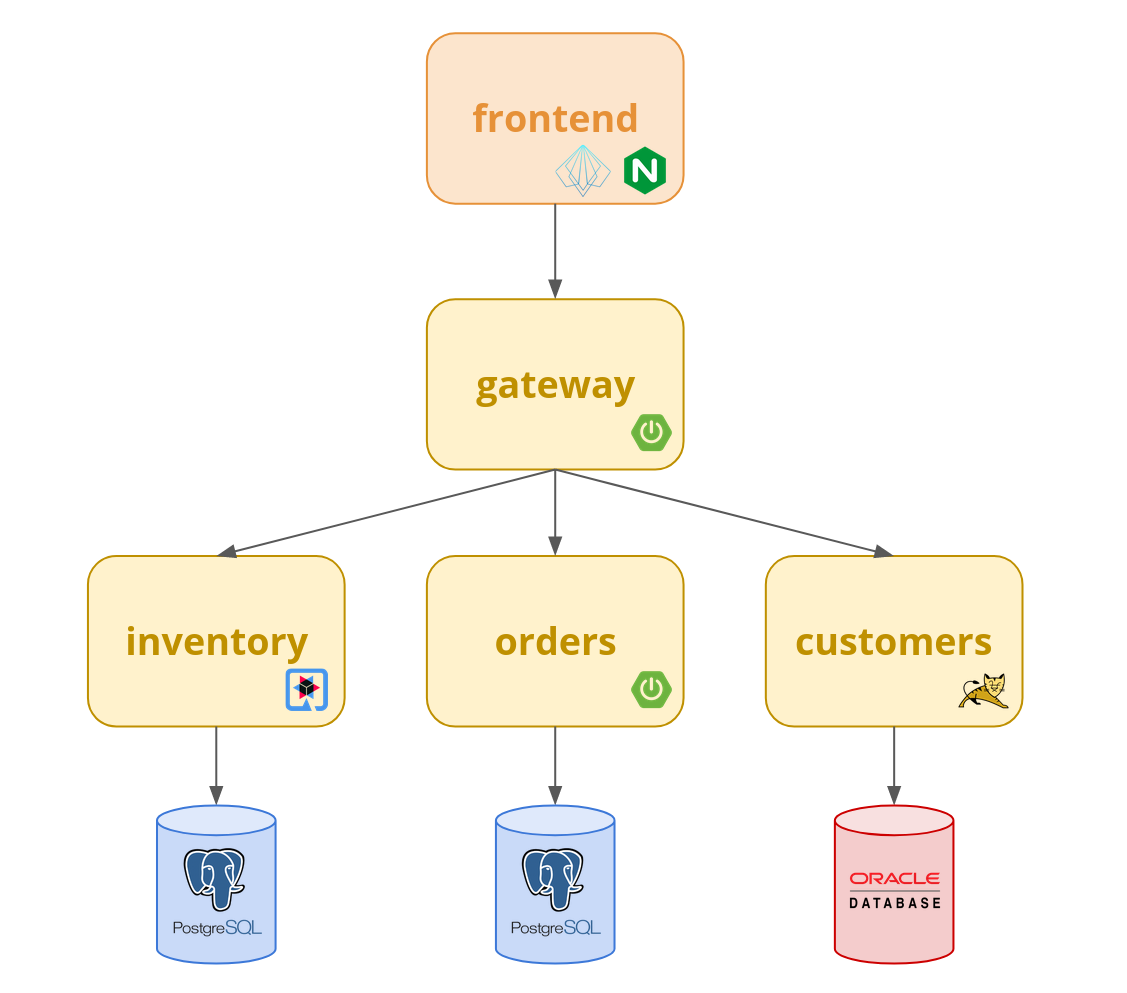
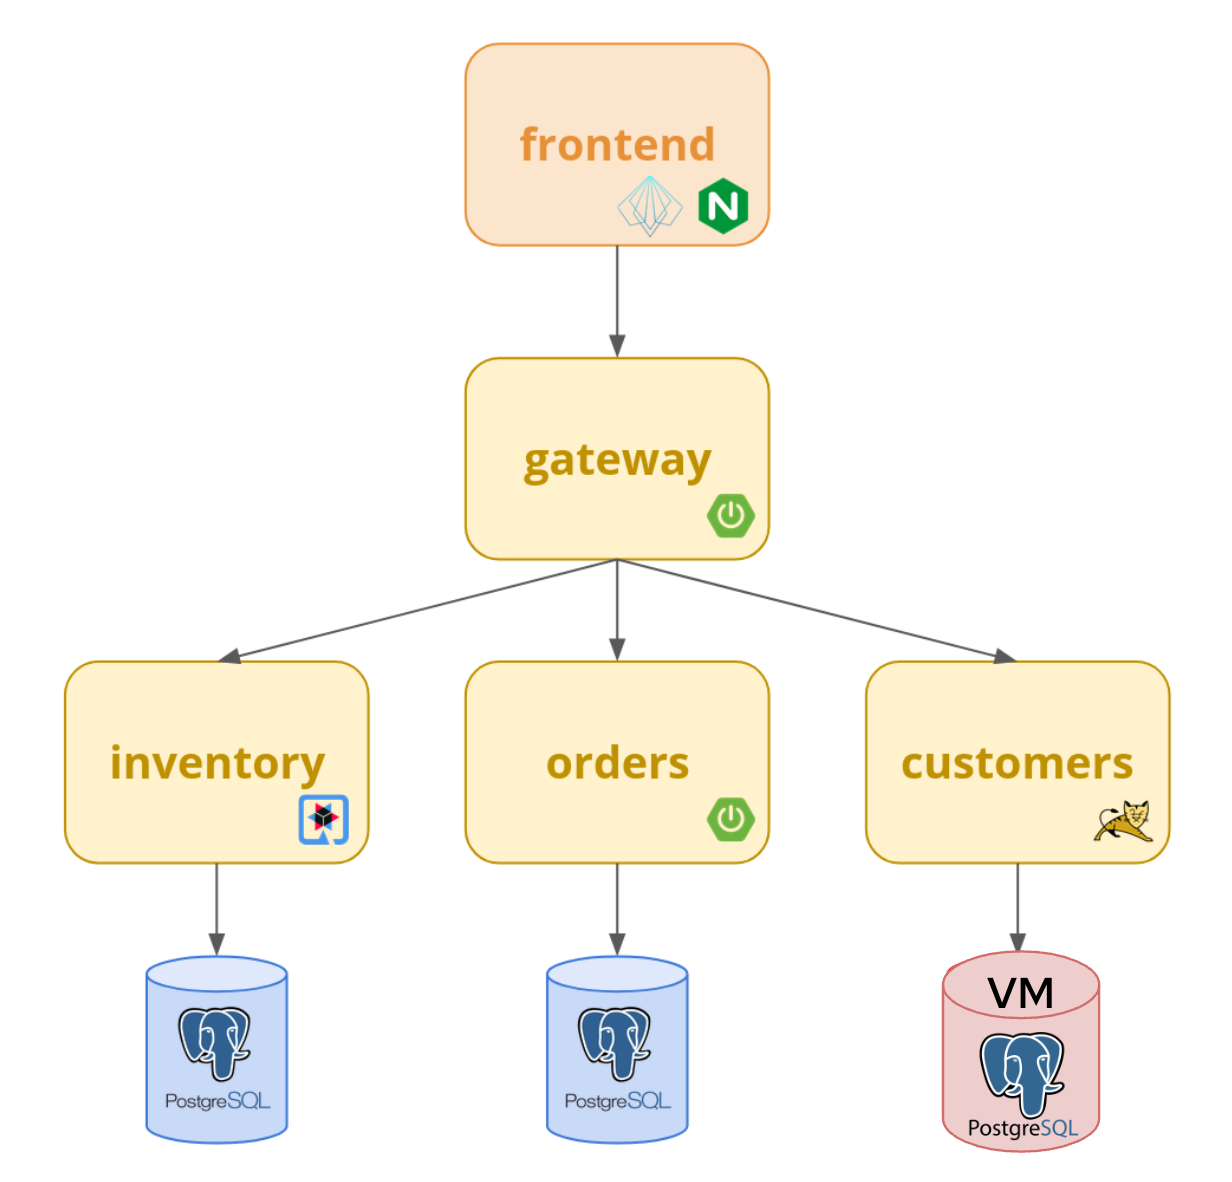
Update Postgres

diff --git a/README.md b/README.md
@@ -5,7 +5,7 @@
 
 The demo includes the following services:
 
-- **Customers**: The original Retail application from which the rest of microservices have been carved out. It still retains the business logic related to customer management. This legacy application runs on Tomcat and uses an Oracle database.
+- **Customers**: The original Retail application from which the rest of microservices have been carved out. It still retains the business logic related to customer management. This legacy application runs on Tomcat and uses a PostgreSQL database.
 - **Inventory**: Stores detailed information about products. Developed using Quarkus and PostgreSQL as data store. This service has been configured with the the JDK build mode for Quarkus by default.
 - **Orders**: Manages all order related entities. It stores only UIDs to refer to Products and Customers. Implemented with Spring Boot and using a PostgreSQL database.
 - **Gateway**: Access and aggregation layer for the whole application. It gets orders data and aggregates Products and Customers detailed information. Also implemented with the Spring Boot/PostgreSQL stack.
